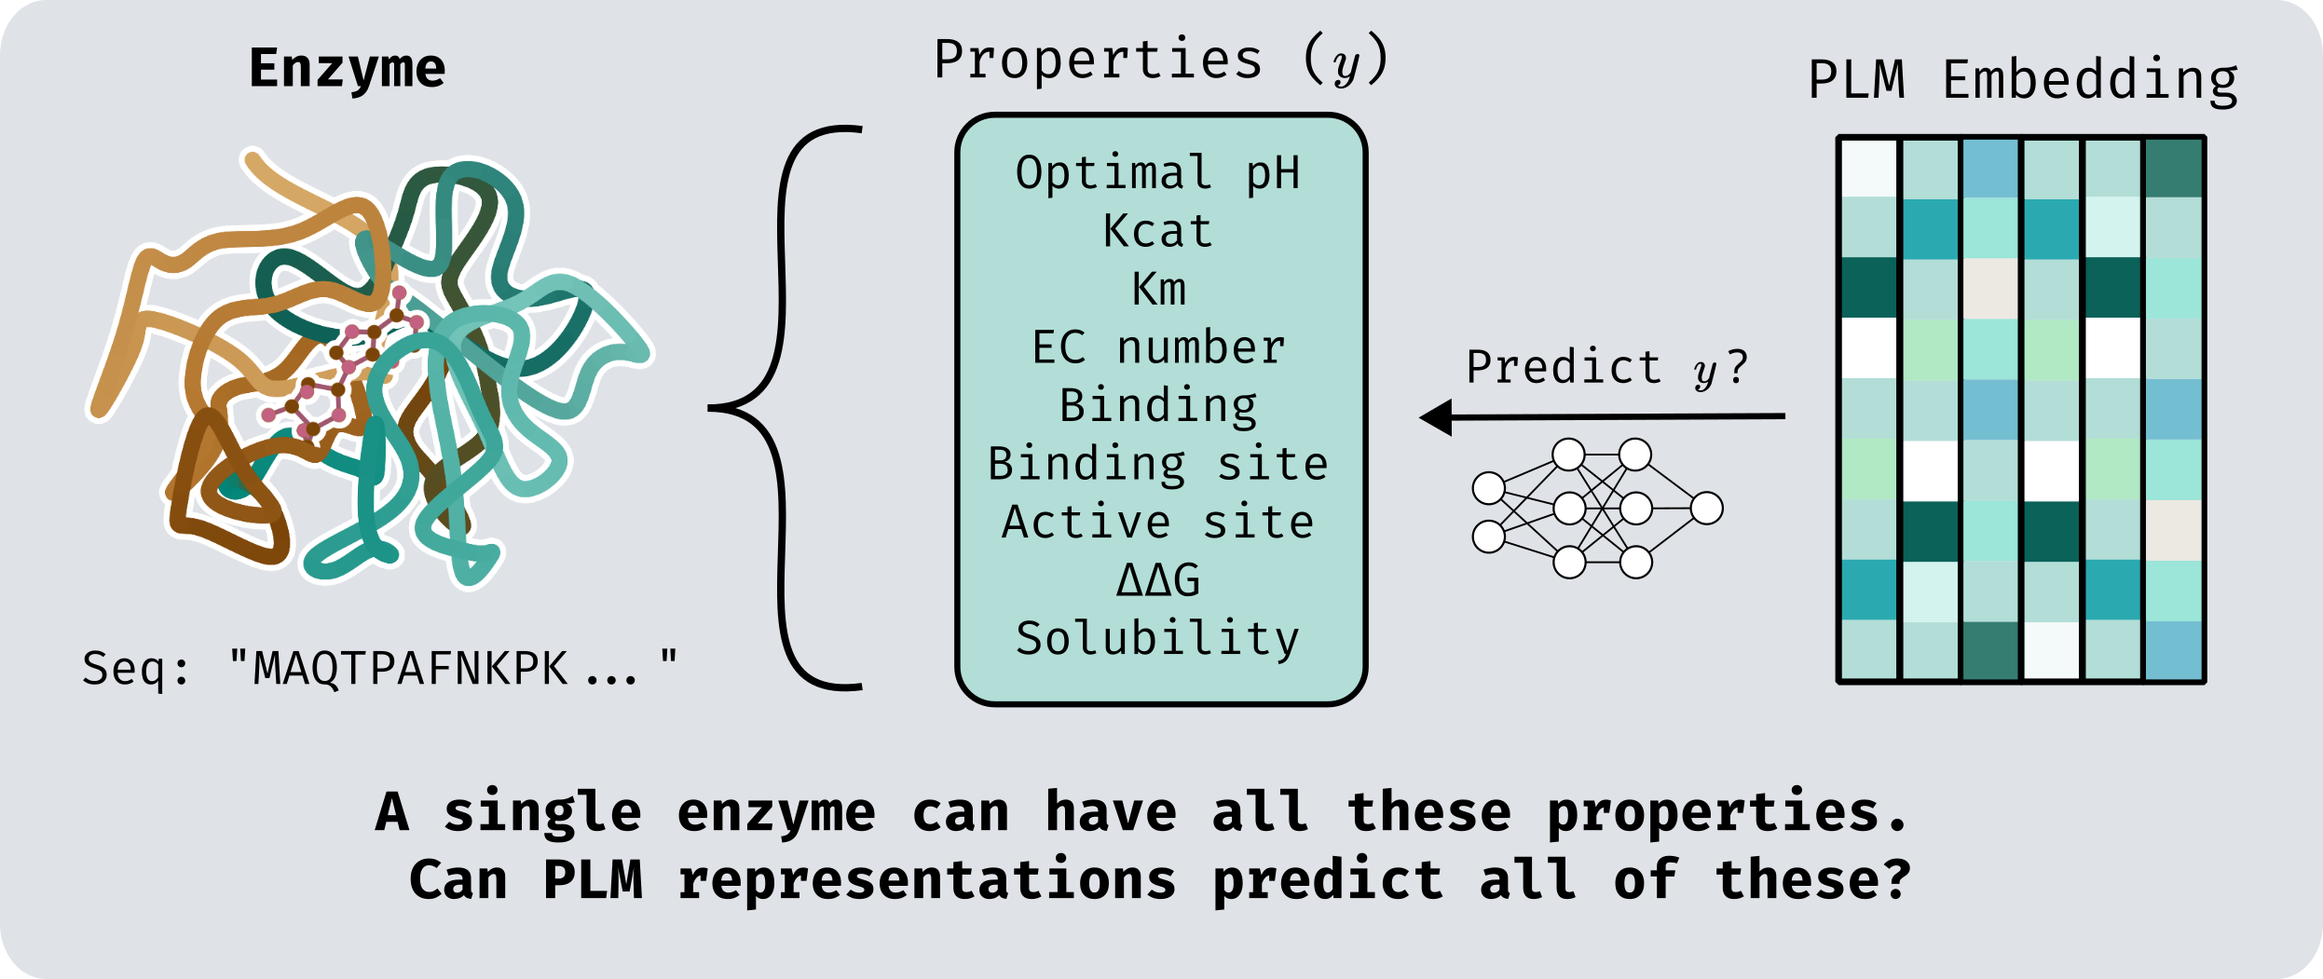
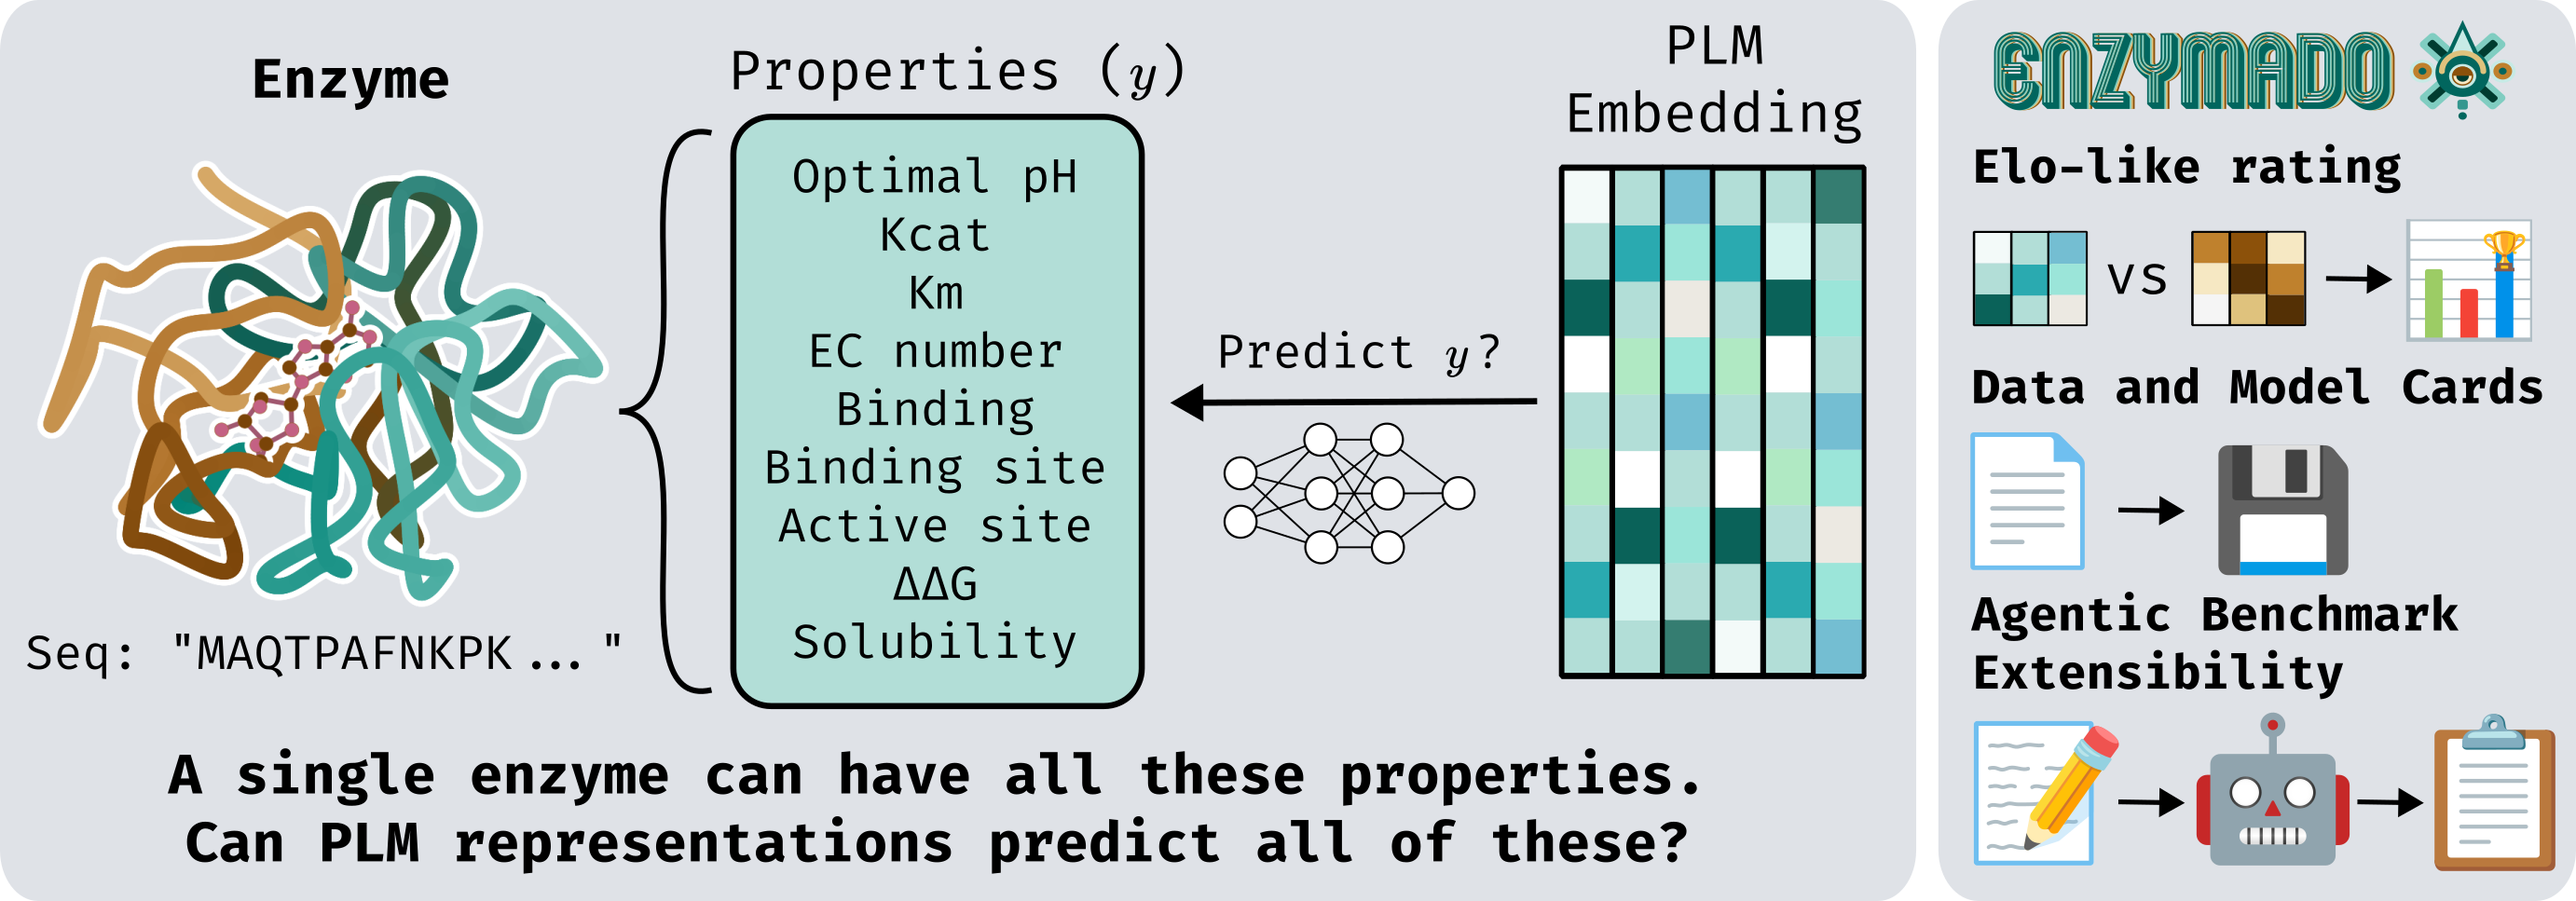
cleaned README, REPRODUCE and add_data

diff --git a/README.md b/README.md
@@ -11,7 +11,7 @@ the numbers are comparable.
 
 <p align="center">
   <img src="assets/representation_question_enzymado_palette.png"
-       alt="One enzyme has many properties, from optimal pH, kcat and Km to EC number, binding, active and binding sites, ddG and solubility. Enzymado asks whether a PLM embedding can predict all of them."
+       alt="One enzyme has many properties, from optimal pH, kcat and Km to EC number, binding, active and binding sites, ddG and solubility. Enzymado asks whether a PLM embedding can predict all of them, and offers an Elo-like rating, data and model cards, and agentic benchmark extensibility."
        width="820">
 </p>
 
@@ -61,12 +61,17 @@ what the representation already carries, not what a full fine-tune could extract
 
 Every model competes on the **same proteins**. The embedding stores do not cover the
 sequence index identically, so `scripts/embeddings/build_embedding_intersection.py`
-computes their intersection once and every run is restricted to it via `--allowed_ids`.
-The published runs use **269,409 shared sequence IDs**: of the 270,029 sequences in
-`data/processed/protein_pool.csv`, the 620 left out are 2,645 residues or longer
-and ran out of GPU memory in ESM3. (`excluded_ids.txt` also lists IDs of an earlier, larger index
-that no dataset uses any more.) `results/embedding_intersection/report.tsv` records the
-per-model coverage.
+computes their intersection once, and runs are restricted to it via `--allowed_ids`.
+`data/processed/protein_pool.csv` holds **319,791 unique sequences**; the 620 that are 2,645
+residues or longer ran out of GPU memory in ESM3 and are dropped, so every model sees the
+same **319,171 sequences**.
+
+That shared set is tracked in two pieces, because the sequence index grew after the
+intersection was first computed. `results/embedding_intersection/common_ids.txt` holds the
+269,409 IDs of the index as it stood then, and the 28 case studies added on 2026-10-30
+brought 49,762 more, embedded with the same 14 models; together they are the 319,171.
+(`excluded_ids.txt` also lists IDs of an earlier, larger index that no dataset uses any
+more.) `results/embedding_intersection/report.tsv` records the per-model coverage.
 
 Every published run uses **training seed 42**. Seeds 43 and 44 retrain a subset of the runs
 to measure training noise (see [Ratings](#ratings)).
@@ -87,11 +92,12 @@ reading the results:
   The fragment list and its UniProt release are in `data/processed/uniprot_fragments.{csv,json}`.
   Residue tasks keep fragments: their labels are positions on the deposited sequence and all
   fall inside it.
-- **Case-study targets that span two or more orders of magnitude are modeled as log10**
-  (GalOx and PETase activity, amylase activity and stability, glucosidase activity and
-  expression), with zeros offset by the smallest positive value at one significant figure
-  (`scripts/data_prep/clean_real.py`). PETase rows also carry the reaction temperature, pH
-  and buffer as numeric features.
+- **24 of the 36 case studies are modeled on a log scale** (target columns starting with
+  `log10_` or `log_`). The offset for zeros depends on the dataset: the smallest positive
+  value at one significant figure for the `align_*` datasets, +1 for PETase and a small
+  fixed value for others, such as 1e-3. Each dataset's preprocessing lives in
+  `scripts/data_prep/real_cases/`. PETase rows also carry the reaction temperature, pH and
+  buffer as numeric features, and GalOx rows the substrate concentration.
 
 Similarity splits use MMseqs2 at a minimum identity of 0.3. The 0.5 threshold recorded in
 the dataset cards belongs to a separate whole-dataset diversity analysis and does not define
@@ -138,9 +144,9 @@ wrapper.
 
 | route | tasks | input |
 |---|---|---|
-| `protein_global` + `binary` / `scalar_regression` | `solubility`, `ph_opt`, case studies | pooled protein vector |
+| `protein_global` + `binary` / `scalar_regression` | `solubility`, `ph_opt`, the 23 case studies without a substrate | pooled protein vector |
 | `protein_global` + `multilabel_ec` | `ec_number` | pooled vector; hierarchical multi-head classifier, or one flat concatenated target for XGBoost with unknown descendants masked per column |
-| `protein_ligand_global` | `binding`, `kcat`, `km`, `cleeveland_galox` | pooled vector joined with the 200 descriptastorus `RDKit2DNormalized` descriptors of the substrate (`data/ligand_features/descriptastorus.npz`, not tracked: build it once with `scripts/data_prep/build_ligand_features.py`) |
+| `protein_ligand_global` | `binding`, `kcat`, `km`, and 13 case studies: `cleeveland_galox`, `goase_variant_substrate`, `goldman_olea_thiolase`, `goldman_aminotransferase`, `fisher_fdh_nacl`, `fisher_fdh_nabr`, `martinez_esterase_panel`, `huang_had_phosphatase_c0`, `huang_had_phosphatase_c1`, `huang_had_phosphatase_c2`, `mcba_reaction_activity`, `ao_3fcr_transaminase`, `koudelakova_hld_panel` | pooled vector joined with the 200 descriptastorus `RDKit2DNormalized` descriptors of the substrate (`data/ligand_features/descriptastorus.npz`, not tracked: build it once with `scripts/data_prep/build_ligand_features.py`) |
 | `mutation_delta_global` | `ddg`, `dtm` | mutant minus wild-type embedding |
 | `protein_residue` + `residue_binary_vector` | `active_sites`, `binding_site` | one embedding per residue, through `DataLoader` batches |
 
@@ -398,6 +404,8 @@ histograms so the bootstrap stays fast.
 
 ```
 results/
+  all_runs.csv            one row per published run
+  leaderboard_*.csv       the two leaderboards as plain tables
   predictions/            per-run artifacts; metrics.json and hparams.json are published
   bootstrap/              1,000-replicate metric distributions per run
   ratings/                the two global leaderboards and their per-round ratings
@@ -414,8 +422,12 @@ produced it.
 
 Only the numbers are published. Prediction tensors, model weights and per-epoch logs stay
 local: they are gigabytes of LFS, and every figure and leaderboard is recomputable from the
-tracked `metrics.json`, `hparams.json` and bootstrap distributions. Per-dataset cards live
-next to the data, at `data/processed/properties/<task>/dataset_card.json`.
+tracked `metrics.json`, `hparams.json` and bootstrap distributions.
+
+Computed statistics for each dataset live next to the data, at
+`data/processed/<scope>/<task>/dataset_card.json`. Curated cards, with sources, label noise
+and caveats, are in [`docs/data_cards/`](docs/data_cards/) (46 datasets) and
+[`docs/model_cards/`](docs/model_cards/) (the 14 language models).
 
 ---
 

diff --git a/add_data.md b/add_data.md
@@ -62,12 +62,8 @@ it as `my_enzyme.csv`.
 If your source needs reshaping, write the conversion as a script rather than
 editing by hand: it keeps the dataset reproducible, and it is the only way to
 share one whose licence does not let you redistribute the data.
-`scripts/data_prep/convert_biolip_to_csv.py` is a working example, and
-`scripts/data_prep/convert_enzyarena_to_csv.py` is another: it produced the
-two EnzyArena datasets in `data/processed/real_case/enzyarena_kcat` and
-`data/processed/real_case/enzyarena_km`. Those are converted and split but not
-registered yet, so no published number depends on them; registering one
-follows Steps 4 to 7.
+The modules in `scripts/data_prep/real_cases/` are working examples, one per
+source.
 
 Pick the layout that matches your data.
 
@@ -190,44 +186,57 @@ assigns whole clusters, which keeps relatives together:
 It needs `mmseqs` on your PATH; binaries are at
 <https://github.com/soedinglab/MMseqs2/releases>.
 
-Either way it writes `my_enzyme_<mode>_80_10_10_standardized.csv` into the
-same folder, with two new columns, `split` and `melting_point_standardized`.
+It writes `my_enzyme_random_80_10_10_standardized.csv` (or
+`my_enzyme_similarity_mmseqs2_80_10_10_standardized.csv`) into the same folder, with two new columns, `split` and `melting_point_standardized`.
 
 For data where every row is an independent protein and you want the target
 balanced across splits, use `--random-split-unit point --point-id-col
-dataset_id --stratify-col melting_point` instead.
+dataset_id --stratify-col melting_point` instead. This is the split the
+published case studies use (`scripts/data_prep/generate_real_case_splits.py`).
 
 ## Step 4. Register the task
 
-Open `src/enzymado/data_loading/data_registry.py` and find `TASK_REGISTRY`.
-Add this entry just before its closing `}`, after the last existing entry:
+Open `src/enzymado/data_loading/data_registry.py` and find `_REAL_CASE_TASKS`.
+For layouts A and B with a random split, add one line after the last
+`_real_case_task(...)` entry:
 
 ```python
-    "my_enzyme": TaskConfig(
-        name="my_enzyme",
-        batch_kind=TaskType.PROTEIN_GLOBAL,
-        label_kind=LabelType.SCALAR_REGRESSION,
-        task_scope="real_case",
-        dataset_paths={
-            SplitType.RANDOM: _DATA / "real_case/my_enzyme/my_enzyme_random_80_10_10_standardized.csv",
-        },
-        target_column="melting_point_standardized",
-        index_columns=("dataset_id",),
-    ),
+        _real_case_task("my_enzyme", "melting_point"),
 ```
 
 Then adjust it:
 
-- Replace `my_enzyme` (four places) and `melting_point` with your names. Keep
-  `_standardized` at the end of `target_column`.
-- **Layout B only:** change `TaskType.PROTEIN_GLOBAL` to
-  `TaskType.PROTEIN_LIGAND_GLOBAL` and add the line `ligand_column="smiles",`.
-- **Layout C only:** change `TaskType.PROTEIN_GLOBAL` to
-  `TaskType.MUTATION_DELTA_GLOBAL` and add the line
-  `wildtype_sequence_column="wildtype_sequence",`. The model then sees the
-  mutant's embedding minus the wild type's.
+- Replace `my_enzyme` and `melting_point` with your names. Do not add
+  `_standardized`: the helper adds it.
+- **Layout B only:** add `has_ligand=True`, which reads the `smiles` column.
 - **Optional:** to let the model use a numeric condition column such as
-  temperature, add `numeric_feature_columns=("temperature",),`.
+  temperature, add `numeric_feature_columns=("temperature",)`.
+
+**Layout C, or a similarity split:** the helper does not cover these. Add a
+full entry on the line just before `TASK_REGISTRY`:
+
+```python
+_REAL_CASE_TASKS["my_enzyme"] = TaskConfig(
+    name="my_enzyme",
+    batch_kind=TaskType.MUTATION_DELTA_GLOBAL,
+    label_kind=LabelType.SCALAR_REGRESSION,
+    task_scope="real_case",
+    dataset_paths={
+        SplitType.RANDOM: _P.data_processed_real_case
+        / "my_enzyme/my_enzyme_random_80_10_10_standardized.csv",
+    },
+    target_column="delta_tm_standardized",
+    wildtype_sequence_column="wildtype_sequence",
+    index_columns=(_C.dataset_id,),
+)
+```
+
+Replace `my_enzyme` and `delta_tm` with your names, keeping `_standardized`.
+The model then sees the mutant's embedding minus the wild type's. For layout A
+with a similarity split, use `TaskType.PROTEIN_GLOBAL` and delete the
+`wildtype_sequence_column` line. For any similarity split, use
+`SplitType.SIMILARITY` with the file Step 3 wrote, and add
+`--split_variant similarity` in Step 7.
 
 `task_scope="real_case"` keeps your dataset out of the property tasks. Do not
 change it. Registering a task changes no published number: the leaderboards
@@ -256,7 +265,8 @@ or `erickson_petase` otherwise. In your copy, change:
 
 Then add your dataset's provenance and a description of its label to
 `SOURCES` in `scripts/data_prep/card_metadata.py`, copying the
-`erickson_petase` entry, and run:
+`erickson_petase` entry, and run the commands below. Published datasets also
+have a curated card in `docs/data_cards/`; copy one if you write yours.
 
 ```bash
 python scripts/data_prep/enrich_dataset_cards.py
@@ -381,8 +391,6 @@ published tasks that use them are good examples to copy from
 
 - yes/no labels (like `solubility`), EC numbers (`ec_number`), or labels on
   individual residues (`active_sites`)
-- the similarity split (`--mode similarity`, used by all property tasks),
-  which keeps similar proteins out of the test set
 - the attention heads, which need the much larger per-residue embeddings
 
 ---

diff --git a/REPRODUCE.md b/REPRODUCE.md
@@ -64,12 +64,28 @@ minus the wild type's, so it has to learn what the mutation changed, not which
 protein it is.
 
 **Case studies** (need `--task_scope real_case`; regression, `random` split
-only): `align_amylase_activity`, `align_amylase_expression`,
+only), 36 in all: `align_amylase_activity`, `align_amylase_expression`,
 `align_amylase_stability`, `align_glucosidase_activity`,
 `align_glucosidase_expression`, `align_glucosidase_melting`,
-`cleeveland_galox` (protein + substrate) and `erickson_petase`. The six
-`align_*` datasets are libraries of variants of one enzyme, differing by a few
-residues.
+`amie_acetamide_dms`, `amie_isobutyramide_dms`, `amie_propionamide_dms`,
+`ao_3fcr_transaminase`, `cleeveland_galox`, `cyp2c9_abundance`,
+`cyp2c9_activity`, `daox_epseq_activity`, `daox_epseq_stability`,
+`erickson_petase`, `fisher_fdh_nabr`, `fisher_fdh_nacl`,
+`goase_variant_substrate`, `goldman_aminotransferase`,
+`goldman_olea_thiolase`, `huang_had_phosphatase_c0`,
+`huang_had_phosphatase_c1`, `huang_had_phosphatase_c2`,
+`koudelakova_hld_panel`, `martinez_esterase_panel`, `mcba_reaction_activity`,
+`mpro_fret_cleavage`, `pafa_htmek_kcat`, `pafa_htmek_kcat_km`,
+`pafa_htmek_km`, `plpro_abundance`, `plpro_activity`, `pyks_solubility`,
+`trpb3_epistasis`, `welo5_soraphen_activity`. The six `align_*` datasets are
+libraries of variants of one enzyme, differing by a few residues. Thirteen
+case studies are protein + substrate: `cleeveland_galox`,
+`goase_variant_substrate`, `goldman_olea_thiolase`,
+`goldman_aminotransferase`, `fisher_fdh_nacl`, `fisher_fdh_nabr`,
+`martinez_esterase_panel`, `huang_had_phosphatase_c0`,
+`huang_had_phosphatase_c1`, `huang_had_phosphatase_c2`,
+`mcba_reaction_activity`, `ao_3fcr_transaminase`, `koudelakova_hld_panel`.
+Each has a card in [`docs/data_cards/`](docs/data_cards/).
 
 ## What one run trains
 
@@ -160,9 +176,9 @@ environment in `envs_files/`.
 
 ### 2. Train
 
-Tasks with a substrate (`binding`, `kcat`, `km`, `cleeveland_galox`) also read
-its RDKit descriptors from `data/ligand_features/descriptastorus.npz`, which is
-not tracked. Build it once; it takes about 3 minutes on 8 CPUs:
+Tasks with a substrate (`binding`, `kcat`, `km` and the 13 case studies listed
+under [The tasks](#the-tasks)) also read its RDKit descriptors from
+`data/ligand_features/descriptastorus.npz`, which is not tracked. Build it once; it takes about 3 minutes on 8 CPUs:
 
 ```bash
 python scripts/data_prep/build_ligand_features.py --workers 8
